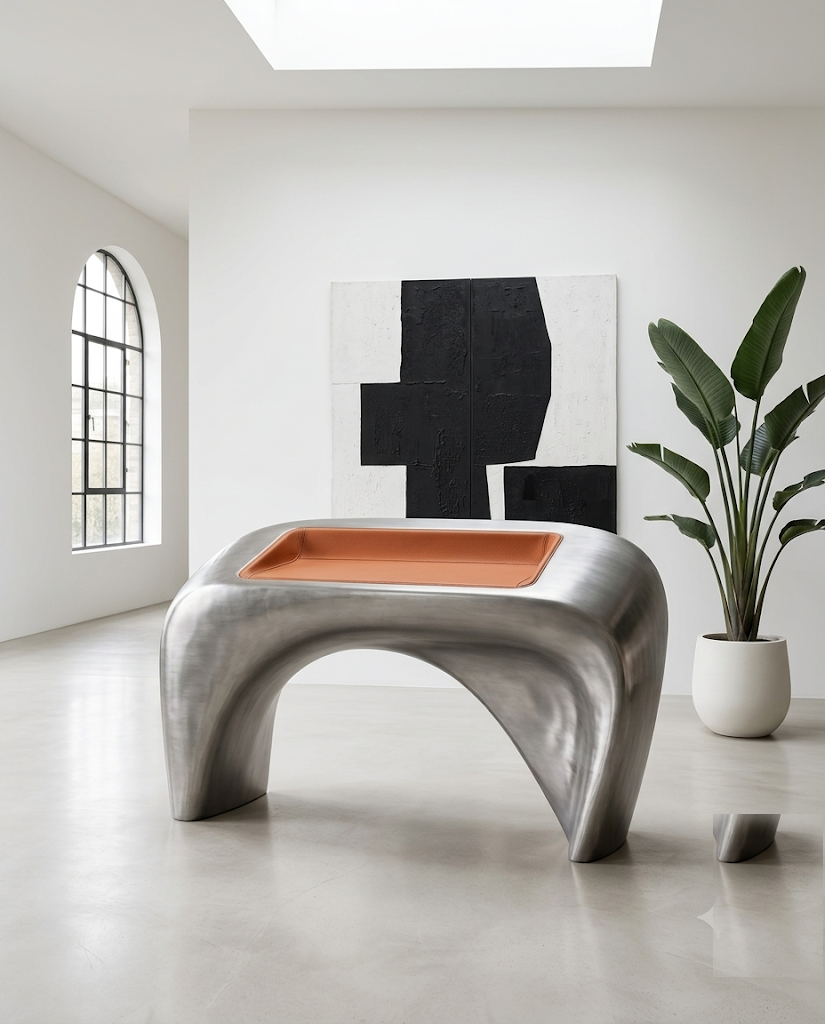
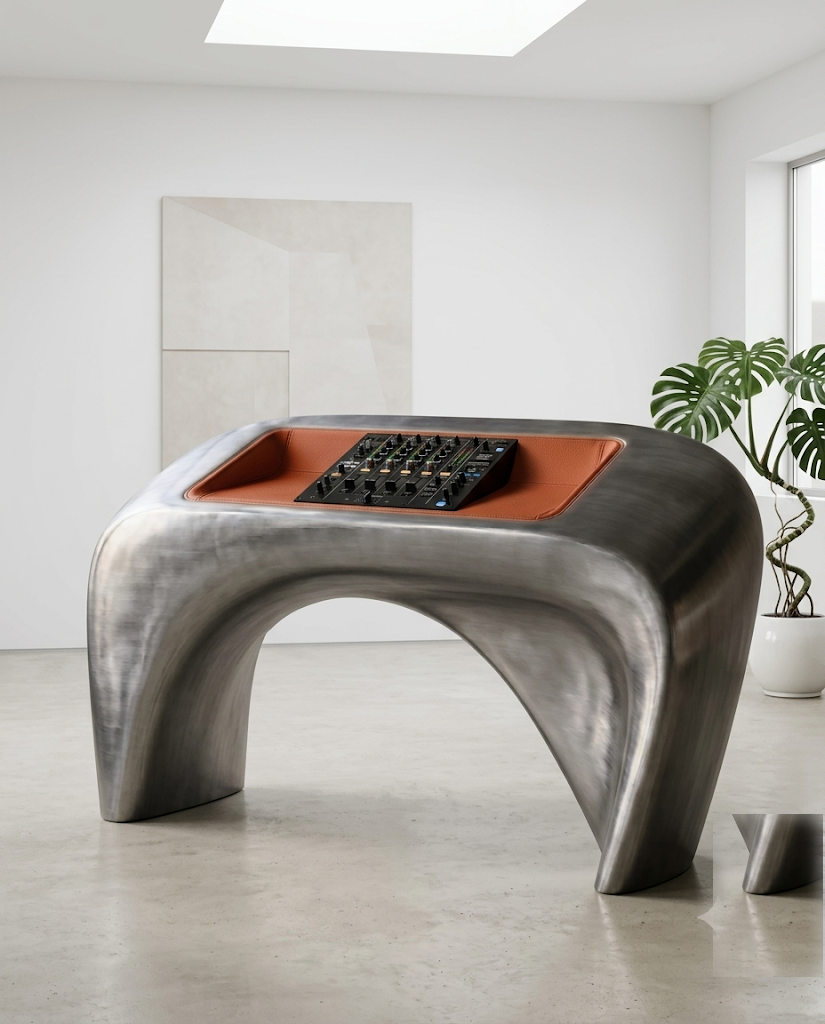
Lookbook: MIRAGE now in a room corner; ARCO shows the mixer installed in its tray

diff --git a/index.html b/index.html
@@ -299,25 +299,25 @@ body.pilock{overflow:hidden}
   </div>
   <div class="lookgrid">
     <a class="look" href="producto.html?p=mirage&v=ink2">
-      <img src="plinth-look-1.png?v=look2" alt="MIRAGE in a warm living room" loading="lazy">
+      <img src="plinth-look-1.png?v=look3" alt="MIRAGE in a warm living room" loading="lazy">
       <span class="lk-num">Look 01 — The living room</span>
       <span class="lk-name">MIRAGE</span>
       <span class="lk-cta">See the piece →</span>
     </a>
     <a class="look" href="producto.html?p=nova&v=ink2">
-      <img src="plinth-look-2.png?v=look2" alt="NOVA in a penthouse at dusk" loading="lazy">
+      <img src="plinth-look-2.png?v=look3" alt="NOVA in a penthouse at dusk" loading="lazy">
       <span class="lk-num">Look 02 — The penthouse</span>
       <span class="lk-name">NOVA</span>
       <span class="lk-cta">See the piece →</span>
     </a>
     <a class="look" href="producto.html?p=ingot&v=ink2">
-      <img src="plinth-look-3.png?v=look2" alt="INGOT in a study" loading="lazy">
+      <img src="plinth-look-3.png?v=look3" alt="INGOT in a study" loading="lazy">
       <span class="lk-num">Look 03 — The study</span>
       <span class="lk-name">INGOT</span>
       <span class="lk-cta">See the piece →</span>
     </a>
     <a class="look" href="producto.html?p=arco&v=ink2">
-      <img src="plinth-look-4.png?v=look2" alt="ARCO in a gallery home" loading="lazy">
+      <img src="plinth-look-4.png?v=look3" alt="ARCO in a gallery home" loading="lazy">
       <span class="lk-num">Look 04 — The gallery house</span>
       <span class="lk-name">ARCO</span>
       <span class="lk-cta">See the piece →</span>
@@ -326,7 +326,7 @@ body.pilock{overflow:hidden}
 </section>
 
 <section class="feature" id="lived">
-  <div class="feature-img"><img src="plinth-look-1.png?v=look2" alt="A PLINTH at home" loading="lazy"></div>
+  <div class="feature-img"><img src="plinth-look-1.png?v=look3" alt="A PLINTH at home" loading="lazy"></div>
   <div class="feature-copy">
     <p class="hk">Lived with</p>
     <h2 class="serif">The one object in the room you'll never move.</h2>

diff --git a/plinth.html b/plinth.html
@@ -299,25 +299,25 @@ body.pilock{overflow:hidden}
   </div>
   <div class="lookgrid">
     <a class="look" href="producto.html?p=mirage&v=ink2">
-      <img src="plinth-look-1.png?v=look2" alt="MIRAGE in a warm living room" loading="lazy">
+      <img src="plinth-look-1.png?v=look3" alt="MIRAGE in a warm living room" loading="lazy">
       <span class="lk-num">Look 01 — The living room</span>
       <span class="lk-name">MIRAGE</span>
       <span class="lk-cta">See the piece →</span>
     </a>
     <a class="look" href="producto.html?p=nova&v=ink2">
-      <img src="plinth-look-2.png?v=look2" alt="NOVA in a penthouse at dusk" loading="lazy">
+      <img src="plinth-look-2.png?v=look3" alt="NOVA in a penthouse at dusk" loading="lazy">
       <span class="lk-num">Look 02 — The penthouse</span>
       <span class="lk-name">NOVA</span>
       <span class="lk-cta">See the piece →</span>
     </a>
     <a class="look" href="producto.html?p=ingot&v=ink2">
-      <img src="plinth-look-3.png?v=look2" alt="INGOT in a study" loading="lazy">
+      <img src="plinth-look-3.png?v=look3" alt="INGOT in a study" loading="lazy">
       <span class="lk-num">Look 03 — The study</span>
       <span class="lk-name">INGOT</span>
       <span class="lk-cta">See the piece →</span>
     </a>
     <a class="look" href="producto.html?p=arco&v=ink2">
-      <img src="plinth-look-4.png?v=look2" alt="ARCO in a gallery home" loading="lazy">
+      <img src="plinth-look-4.png?v=look3" alt="ARCO in a gallery home" loading="lazy">
       <span class="lk-num">Look 04 — The gallery house</span>
       <span class="lk-name">ARCO</span>
       <span class="lk-cta">See the piece →</span>
@@ -326,7 +326,7 @@ body.pilock{overflow:hidden}
 </section>
 
 <section class="feature" id="lived">
-  <div class="feature-img"><img src="plinth-look-1.png?v=look2" alt="A PLINTH at home" loading="lazy"></div>
+  <div class="feature-img"><img src="plinth-look-1.png?v=look3" alt="A PLINTH at home" loading="lazy"></div>
   <div class="feature-copy">
     <p class="hk">Lived with</p>
     <h2 class="serif">The one object in the room you'll never move.</h2>